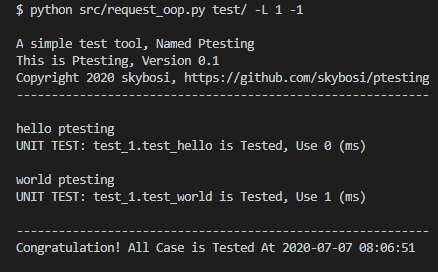
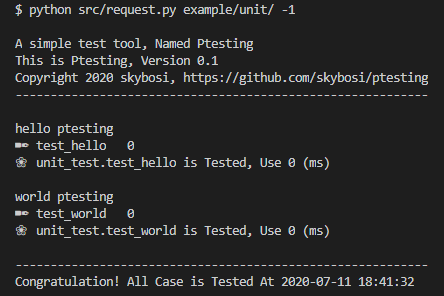
add re check cfg

diff --git a/src/request_oop.py b/src/request_oop.py
@@ -37,6 +37,13 @@ parent_path = os.path.dirname(os.path.dirname(os.path.abspath(__file__)))
 currpath = os.path.abspath('.')
 parentpath = os.path.abspath('..')
 
+# 用于区分测试结果中的标准输出
+PS1 = '❀  '
+UNIT_PS1 = '✒  '
+COUNT_PS1 = '☯  '
+FLOW_PS1 = '✔  '
+FLOW_ERR_PS1 = '✘  '
+
 
 class Requester:
     black_list = {
@@ -62,24 +69,25 @@ class Requester:
         return __version__
 
     def run(self):
+        # debug(module_list)
         print(COPYLEFT)
         for lib in self.module_list:
             cb_dargs, cb_dkargs = [], {}
             for handler in lib["_func"]:
+                handler["case"](*cb_dargs, **cb_dkargs)
                 # 流程测试
-                if ("FLOW" == handler["env"]["type"]):
-                    handler["case"](*cb_dargs, **cb_dkargs)
-                    if type({}) == handler["env"]['cb']:
-                        cb_dkargs = handler["env"]['cb']
-                    elif type(()) == handler["env"]['cb'] or type([]) == handler["env"]['cb']:
-                        cb_dargs = handler["env"]['cb']
+                if ("FLOW" != handler["env"]["type"]):
+                    continue
+                cb_dargs, cb_dkargs = [], {}
+                for cb in (handler["env"].get('cb') or []):
+                    cb_type = type(cb)
+                    if type({}) == cb_type:
+                        cb_dkargs = {**cb_dkargs, **cb}
+                    elif type(()) == cb_type or type([]) == cb_type:
+                        cb_dargs = cb_dargs + cb
                     else:
-                        cb_dargs = []
-                        cb_dargs.append(handler["env"]['cb'])
-                    # print(handler["env"])
-                else:
-                    handler["case"]()
-                    # print(handler["env"])
+                        cb_dargs.append(cb)
+                # print(handler["env"])
         print(END_NOTE + time.strftime('%Y-%m-%d %H:%M:%S',
                                        time.localtime(time.time())))
 
@@ -171,25 +179,45 @@ class Requester:
     def _formatStat(self, ctx, funName, args_tb, stats, start_time, end_time):
         # print(TEST_START.format(ctx['__name__'],
         #                         funName, args_tb['desc'], args_tb['desc']))
-        if 'UNIT' != args_tb['type']:
-            avg, max, min, sum = 0, 0, stats[0]['time'], 0
+        if 'COUNT' == args_tb['type']:
+            avg, i, max, min = 0, 0, 0, stats[0]['time']
             for s in stats:
-                sum = sum + s['time']
                 if min > s['time']:
                     min = s['time']
                 if max < s['time']:
                     max = s['time']
-            avg = sum / len(stats)
+                i += 1
+                avg += (s['time'] - avg) / i
+            avg = round(avg, 3)
             args_tb['stats'] = {}
             args_tb['stats']['list'] = stats
             args_tb['stats']['avg'] = avg
             args_tb['stats']['max'] = max
             args_tb['stats']['min'] = min
-            print('Percentage of the call served within a certain time (ms)')
+            print(COUNT_PS1 + 'Percentage of the call served within a certain time (ms)')
             for s in args_tb['stats']['list']:
                 print("  {:>5} % \t {}".format(s['perc'], s['time']))
-        print('{} TEST: {}.{} is Tested, Use {} (ms)\n'.format(
-            args_tb['type'], ctx['__name__'], funName, end_time - start_time))
+        elif "FLOW" == args_tb['type']:
+            avg, i, retry, err = stats[0]['time'], 0, 0, None
+            for s in stats:
+                i += 1
+                avg += (s['time'] - avg) / i
+                if s['runStatus']['retry'] > 0:
+                    retry += 1
+                    err = s['runStatus']['except']
+            avg = round(avg, 3)
+            if retry > 0:
+                print(
+                    FLOW_ERR_PS1 + "[FLOW] Step:{:^3} \t{} \tException-{}".format(s['step'], avg, str(err)))
+            else:
+                print(
+                    FLOW_PS1 + "[FLOW] Step:{:^3} \t{} \tConcurrency-{}".format(s['step'], avg, args_tb['c']))
+        elif "UNIT" == args_tb['type']:
+            print(
+                UNIT_PS1 + "{:>5} \t{}".format(funName, stats[0]['time']))
+            pass
+        print(PS1 + '{}.{} is Tested, Use {} (ms)\n'.format(
+            ctx['__name__'], funName, end_time - start_time))
         # print(TEST_END.format(
         #     args_tb['desc'], args_tb['desc'], ctx['__name__'], funName, end_time - start_time))
 
@@ -228,9 +256,9 @@ class Requester:
                 # p = Process(target=task1)
                 def Loop(npc, n, *dargs, **dkargs):
                     nonlocal stats
+                    emptyArgs = True
                     if len(dargs) <= 0 or len(dargs[0]) <= 0:  # 有外部参数
                         dargs = args_tb['args']
-                    emptyArgs = True
                     if 0 != args_tb['args_num']:
                         emptyArgs = False
                         dargs = dargs[:args_tb['args_num']]
@@ -238,7 +266,13 @@ class Requester:
                         stat = {
                             'perc': 0,
                             'time': 0,
+                            'runStatus': {
+                                'retry': 0,
+                                'except': []
+                            }
                         }
+                        if args_tb.get('s'):
+                            stat['step'] = args_tb['s']
                         stime = int(round(time.time() * 1000))
                         try:
                             if not emptyArgs:
@@ -246,15 +280,18 @@ class Requester:
                             else:
                                 args_tb['cb'] = func()
                         except Exception as e:
+                            stat['runStatus']['retry'] += 1
+                            stat['runStatus']['except'].append(e)
+                        else:  # 针对流程测试，如果执行成功无需再次重试
                             if 'FLOW' == args_tb['type']:
-                                raise e
+                                break
                         finally:
                             stat['perc'] = round((len(stats) + 1) * 100 / n, 1)
                             stat['time'] = int(
                                 round(time.time() * 1000)) - stime
                             stats.append(stat)
                 t = Thread(target=Loop, args=[
-                    args_tb['npc'], args_tb['n'], *dargs])
+                    args_tb['npc'], args_tb['n'], *dargs], kwargs=dkargs)
                 lis.append(t)
                 t.start()
             for t in lis:
@@ -268,6 +305,7 @@ class Requester:
                 pass
             else:  # 标准输出
                 pass
+
             end_time = int(round(time.time() * 1000))
             stats = sorted(stats, key=lambda e: e['perc'], reverse=False)
             self._formatStat(ctx, funName, args_tb,

diff --git a/src/request.py b/src/request.py
@@ -54,6 +54,13 @@ parentpath = os.path.abspath('..')
 
 file_tb = []
 
+# 用于区分测试结果中的标准输出
+PS1 = '❀  '
+UNIT_PS1 = '✒  '
+COUNT_PS1 = '☯  '
+FLOW_PS1 = '✔  '
+FLOW_ERR_PS1 = '✘  '
+
 
 def _initPath(path):
     '''
@@ -141,24 +148,44 @@ def _loadModule(path, filename, cmd_args):
 def _formatStat(ctx, funName, args_tb, stats, start_time, end_time):
     # print(TEST_START.format(ctx['__name__'],
     #                         funName, args_tb['desc'], args_tb['desc']))
-    if 'UNIT' != args_tb['type']:
-        avg, max, min, sum = 0, 0, stats[0]['time'], 0
+    if 'COUNT' == args_tb['type']:
+        avg, i, max, min = 0, 0, 0, stats[0]['time']
         for s in stats:
-            sum = sum + s['time']
             if min > s['time']:
                 min = s['time']
             if max < s['time']:
                 max = s['time']
-        avg = sum / len(stats)
+            i += 1
+            avg += (s['time'] - avg) / i
+        avg = round(avg, 3)
         args_tb['stats'] = {}
         args_tb['stats']['list'] = stats
         args_tb['stats']['avg'] = avg
         args_tb['stats']['max'] = max
         args_tb['stats']['min'] = min
-        print('Percentage of the call served within a certain time (ms)')
+        print(COUNT_PS1 + 'Percentage of the call served within a certain time (ms)')
         for s in args_tb['stats']['list']:
             print("  {:>5} % \t {}".format(s['perc'], s['time']))
-    print('{}.{} is Tested, Use {} (ms)\n'.format(
+    elif "FLOW" == args_tb['type']:
+        avg, i, retry, err = stats[0]['time'], 0, 0, None
+        for s in stats:
+            i += 1
+            avg += (s['time'] - avg) / i
+            if s['runStatus']['retry'] > 0:
+                retry += 1
+                err = s['runStatus']['except']
+        avg = round(avg, 3)
+        if retry > 0:
+            print(
+                FLOW_ERR_PS1 + "[FLOW] Step:{:^3} \t{} \tException-{}".format(s['step'], avg, str(err)))
+        else:
+            print(
+                FLOW_PS1 + "[FLOW] Step:{:^3} \t{} \tConcurrency-{}".format(s['step'], avg, args_tb['c']))
+    elif "UNIT" == args_tb['type']:
+        print(
+            UNIT_PS1 + "{:>5} \t{}".format(funName, stats[0]['time']))
+        pass
+    print(PS1 + '{}.{} is Tested, Use {} (ms)\n'.format(
         ctx['__name__'], funName, end_time - start_time))
     # print(TEST_END.format(
     #     args_tb['desc'], args_tb['desc'], ctx['__name__'], funName, end_time - start_time))
@@ -199,9 +226,9 @@ def _genCallFunc(ctx, funName, func, args_tb, *dargs, **dkargs):
             # p = Process(target=task1)
             def Loop(npc, n, *dargs, **dkargs):
                 nonlocal stats
+                emptyArgs = True
                 if len(dargs) <= 0 or len(dargs[0]) <= 0:  # 有外部参数
                     dargs = args_tb['args']
-                emptyArgs = True
                 if 0 != args_tb['args_num']:
                     emptyArgs = False
                     dargs = dargs[:args_tb['args_num']]
@@ -209,7 +236,13 @@ def _genCallFunc(ctx, funName, func, args_tb, *dargs, **dkargs):
                     stat = {
                         'perc': 0,
                         'time': 0,
+                        'runStatus': {
+                            'retry': 0,
+                            'except': []
+                        }
                     }
+                    if args_tb.get('s'):
+                        stat['step'] = args_tb['s']
                     stime = int(round(time.time() * 1000))
                     try:
                         if not emptyArgs:
@@ -217,14 +250,17 @@ def _genCallFunc(ctx, funName, func, args_tb, *dargs, **dkargs):
                         else:
                             args_tb['cb'] = func()
                     except Exception as e:
+                        stat['runStatus']['retry'] += 1
+                        stat['runStatus']['except'].append(e)
+                    else:  # 针对流程测试，如果执行成功无需再次重试
                         if 'FLOW' == args_tb['type']:
-                            raise e
+                            break
                     finally:
                         stat['perc'] = round((len(stats) + 1) * 100 / n, 1)
                         stat['time'] = int(round(time.time() * 1000)) - stime
                         stats.append(stat)
             t = Thread(target=Loop, args=[
-                       args_tb['npc'], args_tb['n'], *dargs])
+                       args_tb['npc'], args_tb['n'], *dargs], kwargs=dkargs)
             lis.append(t)
             t.start()
         for t in lis:
@@ -404,20 +440,20 @@ def run(module_list):
     for lib in module_list:
         cb_dargs, cb_dkargs = [], {}
         for handler in lib["_func"]:
+            handler["case"](*cb_dargs, **cb_dkargs)
             # 流程测试
-            if ("FLOW" == handler["env"]["type"]):
-                handler["case"](*cb_dargs, **cb_dkargs)
-                if type({}) == handler["env"]['cb']:
-                    cb_dkargs = handler["env"]['cb']
-                elif type(()) == handler["env"]['cb'] or type([]) == handler["env"]['cb']:
-                    cb_dargs = handler["env"]['cb']
+            if ("FLOW" != handler["env"]["type"]):
+                continue
+            cb_dargs, cb_dkargs = [], {}
+            for cb in (handler["env"].get('cb') or []):
+                cb_type = type(cb)
+                if type({}) == cb_type:
+                    cb_dkargs = {**cb_dkargs, **cb}
+                elif type(()) == cb_type or type([]) == cb_type:
+                    cb_dargs = cb_dargs + cb
                 else:
-                    cb_dargs = []
-                    cb_dargs.append(handler["env"]['cb'])
-                # print(handler["env"])
-            else:
-                handler["case"]()
-                # print(handler["env"])
+                    cb_dargs.append(cb)
+            # print(handler["env"])
     print(END_NOTE + time.strftime('%Y-%m-%d %H:%M:%S', time.localtime(time.time())))
 
 

diff --git a/example/flow/flow_test.py b/example/flow/flow_test.py
@@ -6,10 +6,10 @@ def flow_test_1(n, m):
         pass
     rest = "flow:" + '1-3'
     print(rest)
-    return rest
+    return rest, {"flow":1}
 
 
-def flow_test_2(n):
+def flow_test_2(n, **kwargs):
     """
         flow; eg1:2-3-4-2; 1, 1, 'test'
     """
@@ -17,7 +17,7 @@ def flow_test_2(n):
         pass
     rest = n + " -> flow:2-3"
     print(rest)
-    return rest
+    return rest, {"flow":2}
 
 
 def flow_test_3(n):
@@ -28,4 +28,4 @@ def flow_test_3(n):
         pass
     rest = n + " -> flow:3-3; "
     print(rest)
-    return rest
+    return rest, {"flow":3}
